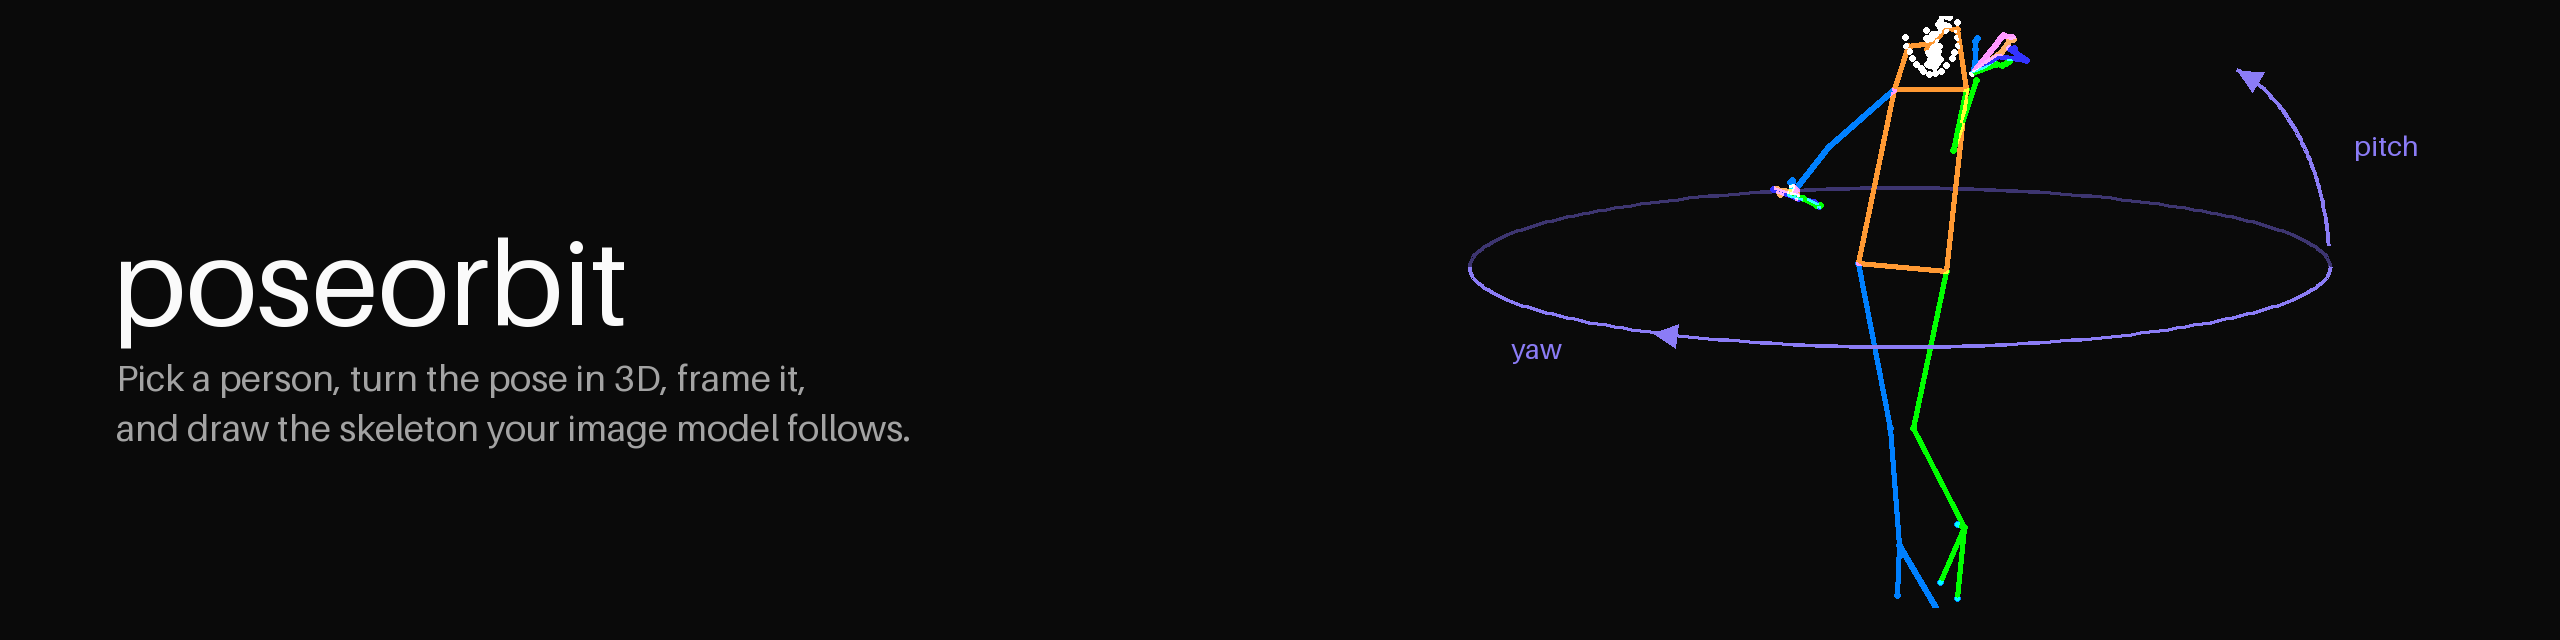
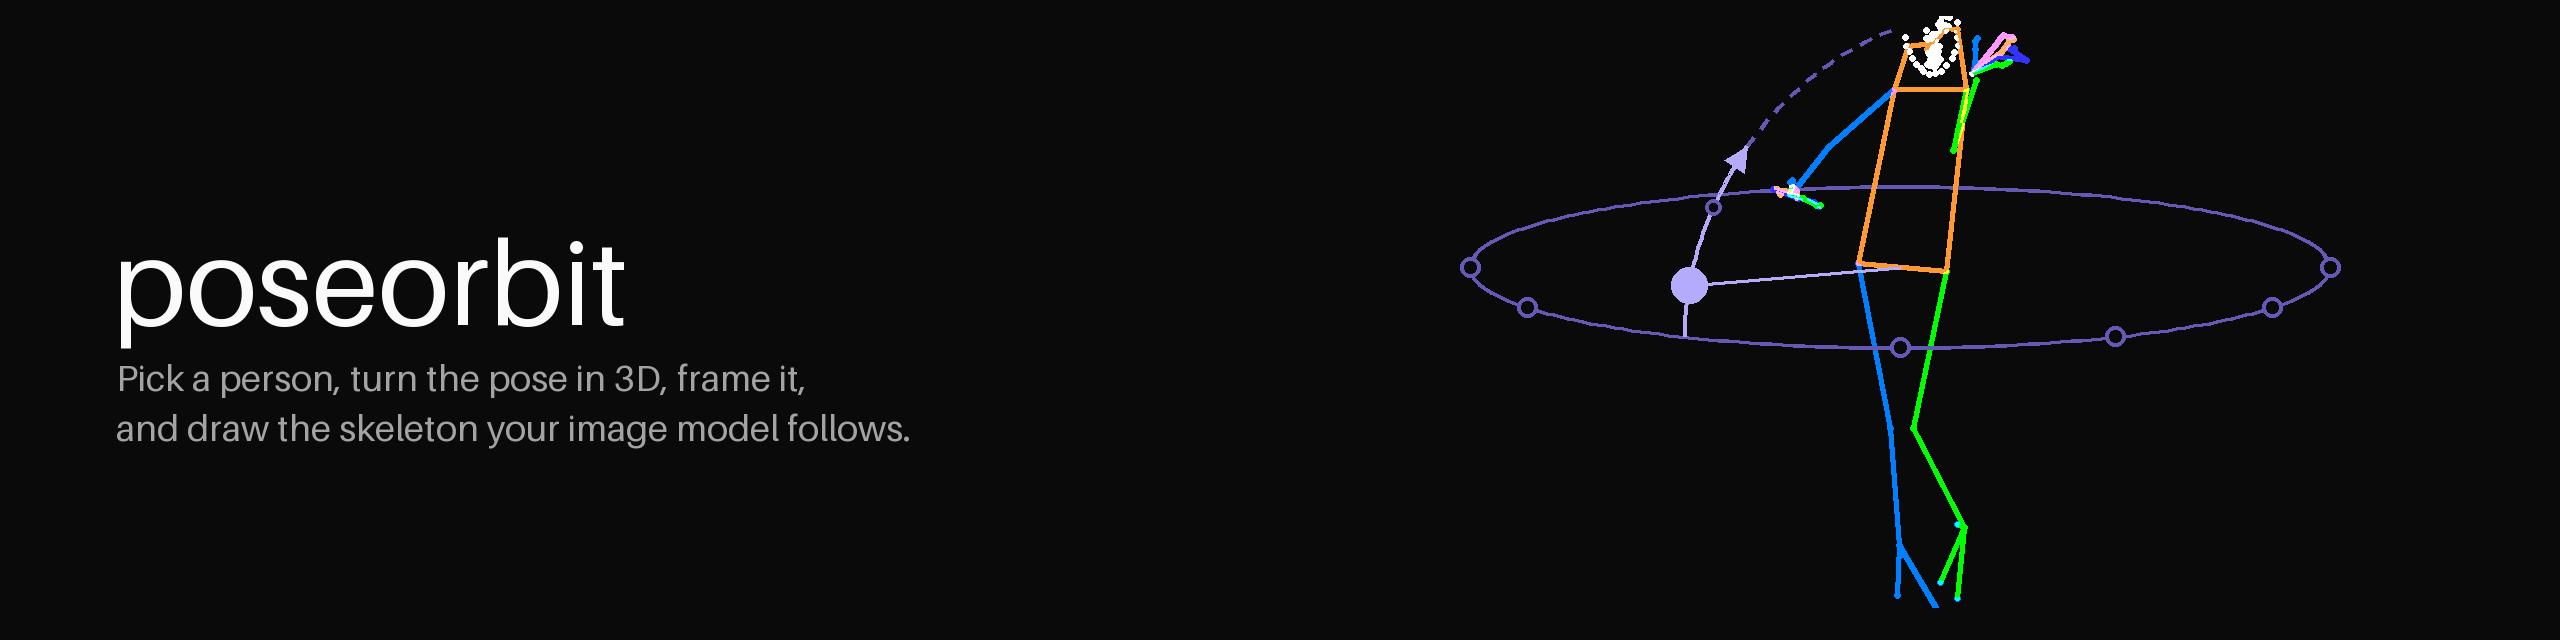
Header: show yaw as the camera's places on the orbit, pitch as its meridian
Dots on the orbit mark where the camera can stand; the filled one is the
camera that drew the skeleton, with its line of sight to the hips. Pitch is
the meridian through it, solid to the 45-degree limit and dashed beyond. No
text labels. Ring and accent colours now stay at least 3:1 against the
background in both themes (the dark ring was 1.8:1).

diff --git a/scripts/make_banner.py b/scripts/make_banner.py
@@ -1,7 +1,8 @@
 """Draws the README banner (docs/assets/banner-{light,dark}.png): the name and
 what poseorbit does on the left, and on the right one skeleton, turned by
-poseorbit itself, inside the orbit its camera moves on (yaw around the
-figure, pitch over it).
+poseorbit itself, inside the sphere its camera moves on: dots on the orbit
+where it can stand (yaw), the meridian it climbs to the 45-degree limit
+(pitch), and the camera that drew the skeleton, looking at the hips.
 
 The pose is docs/assets/banner-pose.json: one whole-body pose (133 points,
 x, y and depth in the pixels of a `size` picture, and their scores), detected
@@ -17,29 +18,43 @@ from __future__ import annotations
 
 import json
 import math
+from itertools import pairwise
 from pathlib import Path
 
 import numpy as np
 from PIL import Image, ImageColor, ImageDraw, ImageFilter, ImageFont
 
-from poseorbit import KEYPOINT_THRESHOLD, Camera, fit, render, scene_centre, view
+from poseorbit import (
+    KEYPOINT_THRESHOLD,
+    MAX_PITCH,
+    Camera,
+    fit,
+    render,
+    scene_centre,
+    view,
+)
 
 ROOT = Path(__file__).resolve().parent.parent
 ASSETS = ROOT / "docs" / "assets"
 W, H, SCALE = 1280, 320, 2
 
+# "ring" is the orbit and the camera's other places, "accent" the camera in
+# use and where it can go. Both stay at least 3:1 against "bg" (WCAG 1.4.11
+# for graphics), the accent clearly above the ring.
 THEMES = {
-    "light": {"bg": "#fafafa", "fg": "#171717", "white": "#525252", "muted": "#737373", "ring": "#c9c3f5", "accent": "#7c6cf0"},
-    "dark": {"bg": "#0a0a0a", "fg": "#fafafa", "white": "#ffffff", "muted": "#a3a3a3", "ring": "#3d3570", "accent": "#8b7cf6"},
+    "light": {"bg": "#fafafa", "fg": "#171717", "white": "#525252", "muted": "#737373", "ring": "#8a7fdc", "accent": "#5b4ad6"},
+    "dark": {"bg": "#0a0a0a", "fg": "#fafafa", "white": "#ffffff", "muted": "#a3a3a3", "ring": "#6459b4", "accent": "#b4abfa"},
 }
 
 CAMERA = Camera(yaw=-30, pitch=12)
 FIGURE = (240, 296)  # the box the turned skeleton is fitted into
 LEFT_TOP = (830, 8)  # where that box goes
-# The orbit is centred on the hips, wherever the pose puts them in the box.
-RING = (215, 40)  # the orbit's half width and half height
-PITCH_RISE = 105  # how high the pitch arc climbs over the orbit
-
+# The camera's sphere around the hips, as drawn: the orbit's half width and
+# half height, and how tall the sphere looks above it (not to scale: the real
+# sphere would not fit the banner).
+RING = (215, 40)
+RISE = 120
+YAW_STEP = 30  # a dot on the orbit every this many degrees of yaw
 
 def font(size: int) -> ImageFont.FreeTypeFont:
     # Pillow's bundled font, so the script needs no font files (it has no
@@ -69,12 +84,14 @@ def skeleton() -> tuple[Image.Image, tuple[float, float]]:
     return figure, (LEFT_TOP[0] + FIGURE[0] / 2, LEFT_TOP[1] + float(hips[1]))
 
 
-def on_ring(centre: tuple[float, float], angle: float) -> tuple[float, float]:
-    """A point of the orbit ring in scaled pixels; angle 0 is the right end,
-    pi/2 the near side (lower on screen)."""
+def on_sphere(centre: tuple[float, float], yaw: float, pitch: float = 0.0) -> tuple[float, float]:
+    """Where the camera at (`yaw`, `pitch`) is drawn, in scaled pixels. Yaw 0
+    is the near side of the orbit (lower on screen), +yaw to the viewer's
+    right; pitch lifts it towards the top of the sphere."""
+    a, e = math.pi / 2 - math.radians(yaw), math.radians(pitch)
     return (
-        (centre[0] + RING[0] * math.cos(angle)) * SCALE,
-        (centre[1] + RING[1] * math.sin(angle)) * SCALE,
+        (centre[0] + RING[0] * math.cos(e) * math.cos(a)) * SCALE,
+        (centre[1] + RING[1] * math.cos(e) * math.sin(a) - RISE * math.sin(e)) * SCALE,
     )
 
 
@@ -87,6 +104,34 @@ def arrow_head(draw: ImageDraw.ImageDraw, tip: tuple[float, float], towards: tup
     draw.polygon([tip, (bx - uy * half, by + ux * half), (bx + uy * half, by - ux * half)], fill=colour)
 
 
+def dot(draw: ImageDraw.ImageDraw, at: tuple[float, float], radius: float, theme: dict, filled: bool) -> None:
+    r = radius * SCALE
+    box = [at[0] - r, at[1] - r, at[0] + r, at[1] + r]
+    if filled:
+        draw.ellipse(box, fill=theme["accent"])
+    else:
+        draw.ellipse(box, outline=theme["ring"], width=2 * SCALE, fill=theme["bg"])
+
+
+def dashed(draw: ImageDraw.ImageDraw, points: list[tuple[float, float]], colour: str, dash: float = 6, gap: float = 5) -> None:
+    """A dashed line along `points` (scaled pixels)."""
+    pattern = [dash * SCALE, gap * SCALE]
+    phase, left, segment = 0, pattern[0], [points[0]]
+    for p, q in pairwise(points):
+        length, done = math.dist(p, q), 0.0
+        while length - done > left:
+            done += left
+            point = (p[0] + (q[0] - p[0]) * done / length, p[1] + (q[1] - p[1]) * done / length)
+            if phase == 0:
+                draw.line(segment + [point], fill=colour, width=2 * SCALE)
+            phase, left, segment = 1 - phase, pattern[1 - phase], [point]
+        left -= length - done
+        if phase == 0:
+            segment.append(q)
+    if phase == 0 and len(segment) > 1:
+        draw.line(segment, fill=colour, width=2 * SCALE)
+
+
 def banner(theme: dict, figure: Image.Image, centre: tuple[float, float]) -> Image.Image:
     s = SCALE
     image = Image.new("RGBA", (W * s, H * s), theme["bg"])
@@ -96,8 +141,8 @@ def banner(theme: dict, figure: Image.Image, centre: tuple[float, float]) -> Ima
     draw.text((58 * s, 178 * s), "Pick a person, turn the pose in 3D, frame it,", font=font(18), fill=theme["muted"])
     draw.text((58 * s, 203 * s), "and draw the skeleton your image model follows.", font=font(18), fill=theme["muted"])
 
-    # The far half of the orbit, behind the figure.
-    far = [on_ring(centre, a) for a in np.linspace(math.pi, 2 * math.pi, 120)]
+    # The far half of the orbit, behind the figure (yaw beyond +-90).
+    far = [on_sphere(centre, yaw) for yaw in np.linspace(90, 270, 120)]
     draw.line(far, fill=theme["ring"], width=2 * s, joint="curve")
 
     # rtmlib draws the face in white, lost on a light background: tint it.
@@ -107,25 +152,28 @@ def banner(theme: dict, figure: Image.Image, centre: tuple[float, float]) -> Ima
     image.alpha_composite(Image.fromarray(pixels), (LEFT_TOP[0] * s, LEFT_TOP[1] * s))
     draw = ImageDraw.Draw(image)
 
-    # The near half, in front of the figure: the camera swings along it (yaw).
-    near = [on_ring(centre, a) for a in np.linspace(0, math.pi, 120)]
-    draw.line(near, fill=theme["accent"], width=2 * s, joint="curve")
-    a = math.radians(125)
-    arrow_head(draw, on_ring(centre, a), (-RING[0] * math.sin(a), RING[1] * math.cos(a)), theme["accent"])
-    label = on_ring(centre, math.radians(140))
-    draw.text((label[0] - 30 * s, label[1] + 6 * s), "yaw", font=font(14), fill=theme["accent"])
+    # The near half, in front of the figure, with the places the camera can
+    # stand as it swings around (yaw), up to the side views.
+    near = [on_sphere(centre, yaw) for yaw in np.linspace(-90, 90, 120)]
+    draw.line(near, fill=theme["ring"], width=2 * s, joint="curve")
+    for yaw in range(-90, 91, YAW_STEP):
+        if yaw != round(CAMERA.yaw):
+            dot(draw, on_sphere(centre, yaw), 5, theme, False)
 
-    # The pitch arc: from the right end of the orbit, up over the figure.
-    start = on_ring(centre, 0)
-    arc = [
-        (start[0] - (1 - math.cos(t)) * 70 * s, start[1] - math.sin(t) * PITCH_RISE * s)
-        for t in np.linspace(math.radians(6), math.radians(70), 60)
-    ]
-    draw.line(arc, fill=theme["accent"], width=2 * s, joint="curve")
-    arrow_head(draw, arc[-1], (arc[-1][0] - arc[-4][0], arc[-1][1] - arc[-4][1]), theme["accent"])
-    draw.text((start[0] + 12 * s, start[1] - 70 * s), "pitch", font=font(14), fill=theme["accent"])
+    # The meridian through the camera: it climbs along it (pitch), solid to
+    # the 45-degree limit, dashed beyond.
+    climb = [on_sphere(centre, CAMERA.yaw, e) for e in np.linspace(0, MAX_PITCH, 40)]
+    dashed(draw, [on_sphere(centre, CAMERA.yaw, e) for e in np.linspace(MAX_PITCH, 90, 30)], theme["ring"])
+    draw.line(climb, fill=theme["accent"], width=2 * s, joint="curve")
+    for e in (30,):  # 15 would sit under the camera
+        dot(draw, on_sphere(centre, CAMERA.yaw, e), 4, theme, False)
+    arrow_head(draw, climb[-1], (climb[-1][0] - climb[-4][0], climb[-1][1] - climb[-4][1]), theme["accent"])
+
+    # The camera in use, and its line of sight to the hips.
+    camera = on_sphere(centre, CAMERA.yaw, CAMERA.pitch)
+    draw.line([camera, (centre[0] * s, centre[1] * s)], fill=theme["accent"], width=2 * s)
+    dot(draw, camera, 9, theme, True)
     return image.convert("RGB")
-
 
 def main() -> None:
     figure, centre = skeleton()
